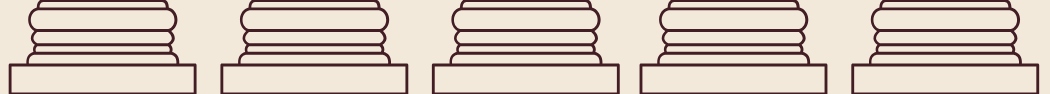
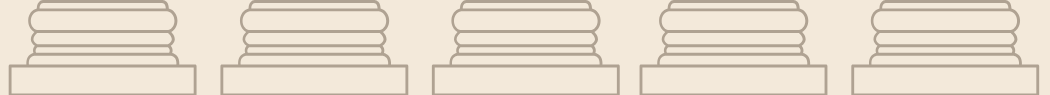
fixed the booking and changed the light columns and body text size

diff --git a/main.css b/main.css
@@ -44,7 +44,7 @@ body {
     padding: 0;
     padding-top: 60px;
     font-family: var(--general_font);
-    font-size: 1.5em;
+    font-size: 1.2em;
     text-align: justify;
     display: flex;
     flex-direction: column;
@@ -429,7 +429,7 @@ a {
     font-size: 0.8em;
 }
 
-/* Ticket section */
+/* --------Ticket section --------*/
 .tickets {
     display: flex;
     flex-direction: column;
@@ -455,12 +455,10 @@ select {
     display: flex;
     gap: 12px;
     flex-wrap: wrap;
-    /* consente ai campi di andare a capo */
 }
 
 .field-row>div {
     flex: 1 1 200px;
-    /* larghezza minima per responsive */
 }
 
 .book {
@@ -481,10 +479,10 @@ select {
     background: var(--linkred);
 }
 
-/* Media query per schermi piccoli */
 @media (max-width: 600px) {
     .field-row {
         flex-direction: column;
+        gap: 6px;
     }
 }
 
@@ -492,7 +490,6 @@ select {
 /* -------Footer-------------*/
 footer {
     border-top: 4px solid var(--textred);
-    display: flex;
     flex-direction: column;
     margin-top: 0;
     margin-bottom: 0;

diff --git a/index.html b/index.html
@@ -461,13 +461,13 @@
             separators.forEach((img, index) => {
                 switch (index) {
                     case 0:
-                        img.src = toggle.checked ? "imgs/sopra_col_light.png" : "imgs/sopra colonna.png";
+                        img.src = toggle.checked ? "" : "imgs/sopra colonna.png";
                         break;
                     case 1:
-                        img.src = toggle.checked ? "imgs/centro_col_light.png" : "imgs/centro colonna.png";
+                        img.src = toggle.checked ? "" : "imgs/centro colonna.png";
                         break;
                     case 2:
-                        img.src = toggle.checked ? "imgs/fine_col_light.png" : "imgs/fine colonne.png";
+                        img.src = toggle.checked ? "" : "imgs/fine colonne.png";
                         break;
                 }
             });
